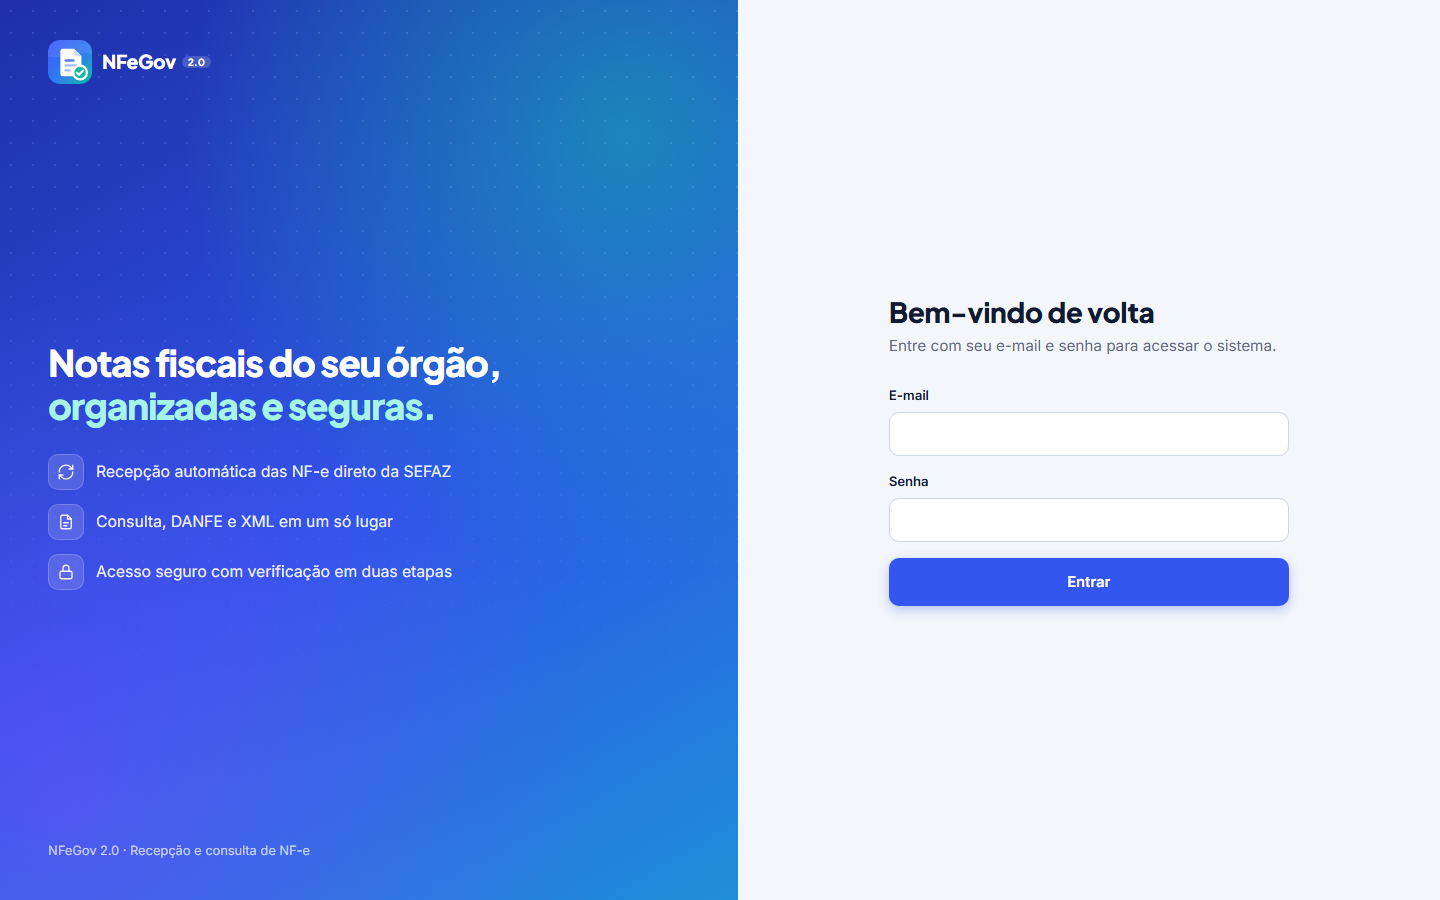
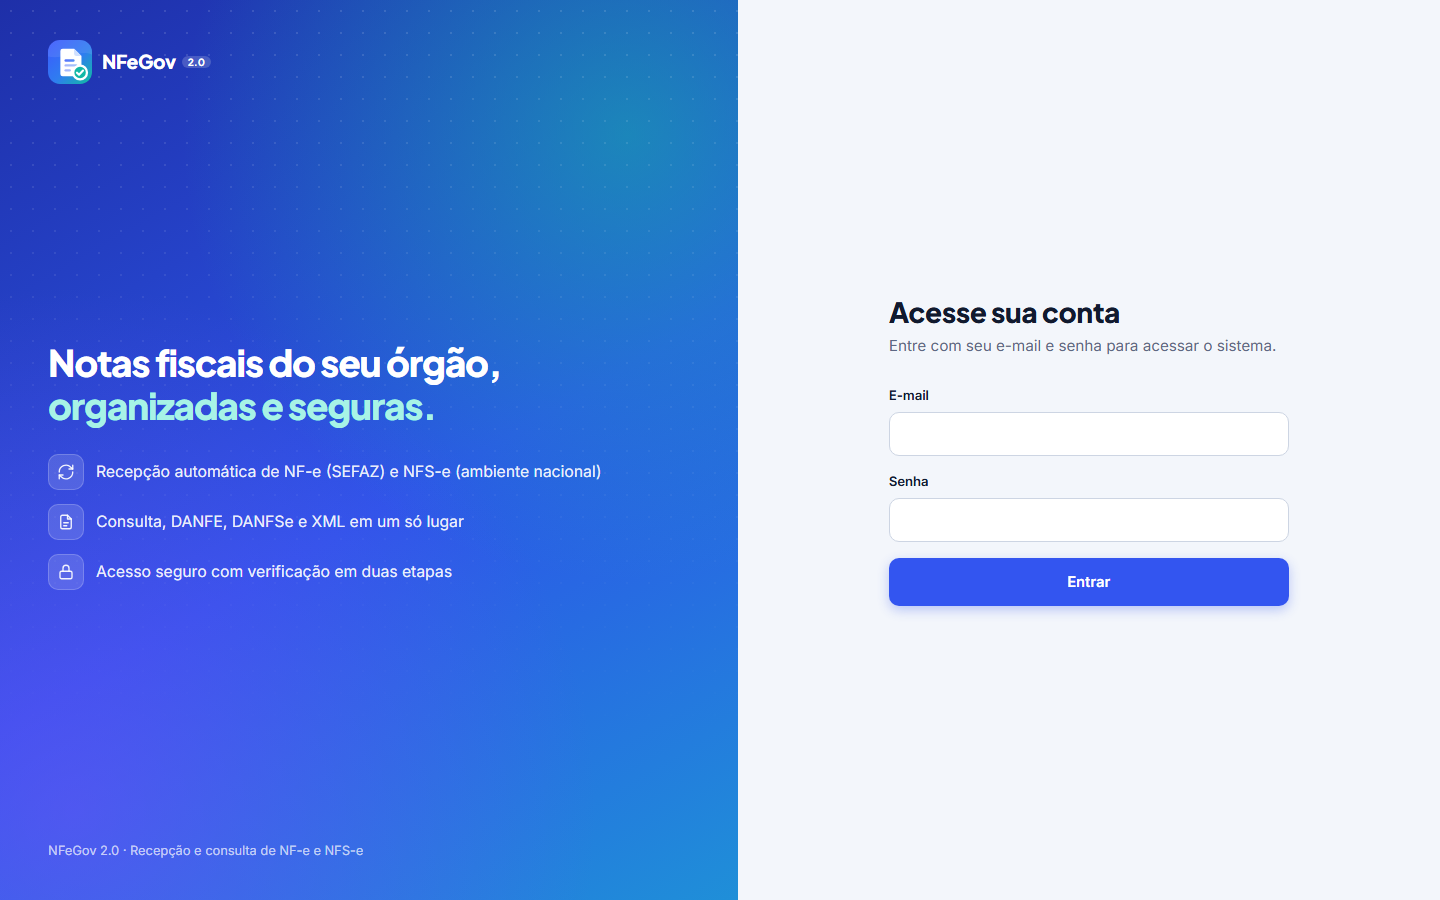
docs: capturas de tela com NFS-e e dados genéricos
- login, painel (claro e escuro), lista e detalhe de NFS-e, diálogo de
  manifestação, sincronizações e unidades, tirados com o usuário operador
- nomes de empresas, CNPJs, e-mail e nome do usuário trocados por
  genéricos antes de cada print, com conferência de vazamento
- README ganha a seção de capturas; índice de docs atualizado

diff --git a/README.md b/README.md
@@ -120,6 +120,27 @@ A tela inicial mostra a visão geral da entidade ativa, em dois blocos:
 Tudo respeita a entidade ativa e a permissão `nfe.view`. Com `NFEGOV_ADN_HABILITADO=false` o
 bloco de NFS-e some.
 
+### Capturas de tela
+
+Os dados das capturas são **fictícios**: nomes de empresas, CNPJs, e-mail e nome do usuário
+foram trocados por valores genéricos antes de cada print; valores, datas, números de nota e
+municípios são os do ambiente em que a captura foi feita.
+
+| Tela | Captura |
+|---|---|
+| Login | [`docs/capturas/login.png`](docs/capturas/login.png) |
+| Painel (NF-e e NFS-e), tema claro e escuro | [`painel.png`](docs/capturas/painel.png) · [`painel-escuro.png`](docs/capturas/painel-escuro.png) |
+| Lista de NF-e | [`docs/capturas/nfes.png`](docs/capturas/nfes.png) |
+| Lista de NFS-e (recebidas, filtros, exportações) | [`docs/capturas/nfses.png`](docs/capturas/nfses.png) |
+| Detalhe da NFS-e (partes, manifestação pendente, eventos) | [`docs/capturas/nfse-detalhe.png`](docs/capturas/nfse-detalhe.png) |
+| Diálogo de manifestação do tomador (rejeição) | [`docs/capturas/nfse-manifestacao.png`](docs/capturas/nfse-manifestacao.png) |
+| Sincronizações (NF-e e NFS-e) | [`docs/capturas/sincronizacoes.png`](docs/capturas/sincronizacoes.png) |
+| Unidades | [`docs/capturas/unidades.png`](docs/capturas/unidades.png) |
+
+![Painel com NF-e e NFS-e](docs/capturas/painel.png)
+
+![Lista de NFS-e](docs/capturas/nfses.png)
+
 ## Operação
 
 ### Sincronização com a SEFAZ (NF-e)

diff --git a/docs/README.md b/docs/README.md
@@ -31,8 +31,14 @@ no [`README.md`](../README.md) da raiz.
 
 ## Capturas de tela
 
-A pasta [`capturas/`](capturas/) guarda imagens da interface (login, lista de NF-e e painel
-claro/escuro). Foram tiradas antes do painel de NFS-e (2.6.0) e do menu **NFS-e**.
+A pasta [`capturas/`](capturas/) guarda imagens da interface: login, painel (claro e escuro),
+lista de NF-e, lista e detalhe de NFS-e, diálogo de manifestação, sincronizações e unidades.
+Os dados são **fictícios** (nomes de empresas, CNPJs, e-mail e nome do usuário trocados por
+genéricos antes de cada print). A captura da lista de NF-e (`nfes.png`) é da 2.1.0, com dados de
+demonstração, e ainda não mostra o menu **NFS-e**; as demais são da 2.6.0.
+
+Para tirar capturas novas sem expor dados reais, troque nomes e documentos no navegador **antes**
+do print e confira a imagem depois; nunca publique captura de ambiente com dados reais.
 
 ## Como manter
 
